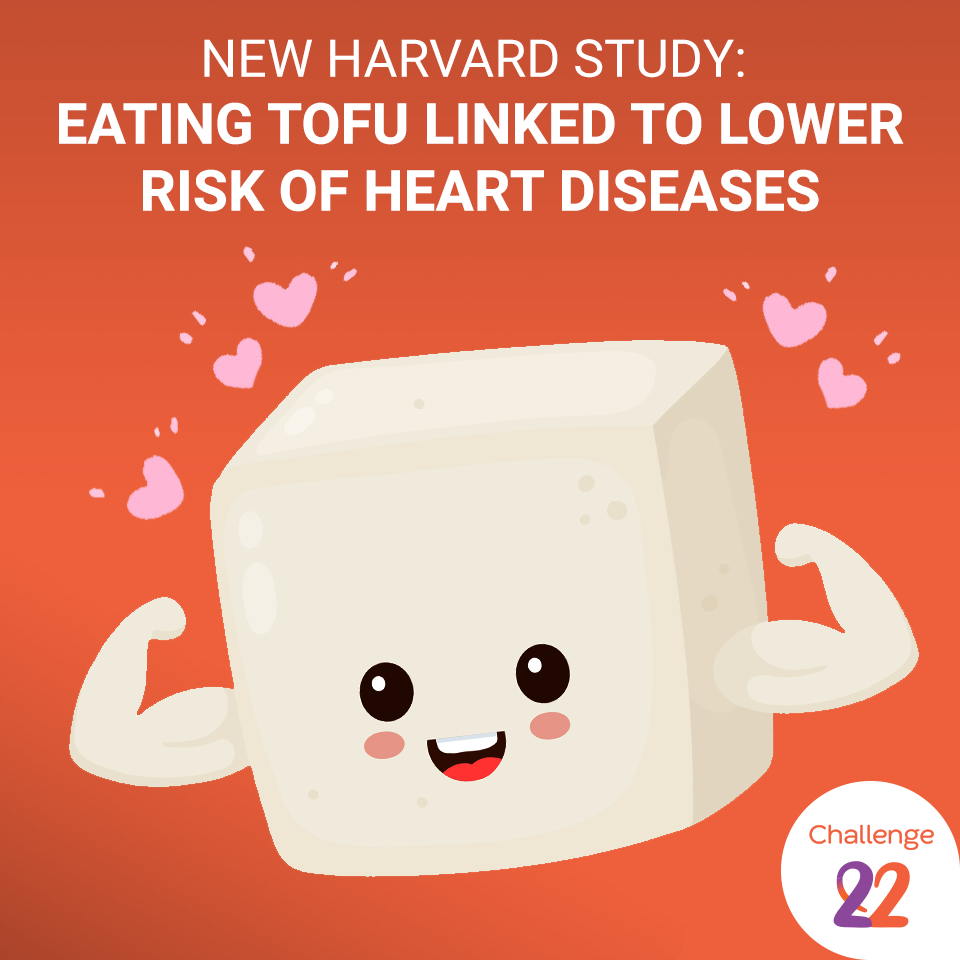
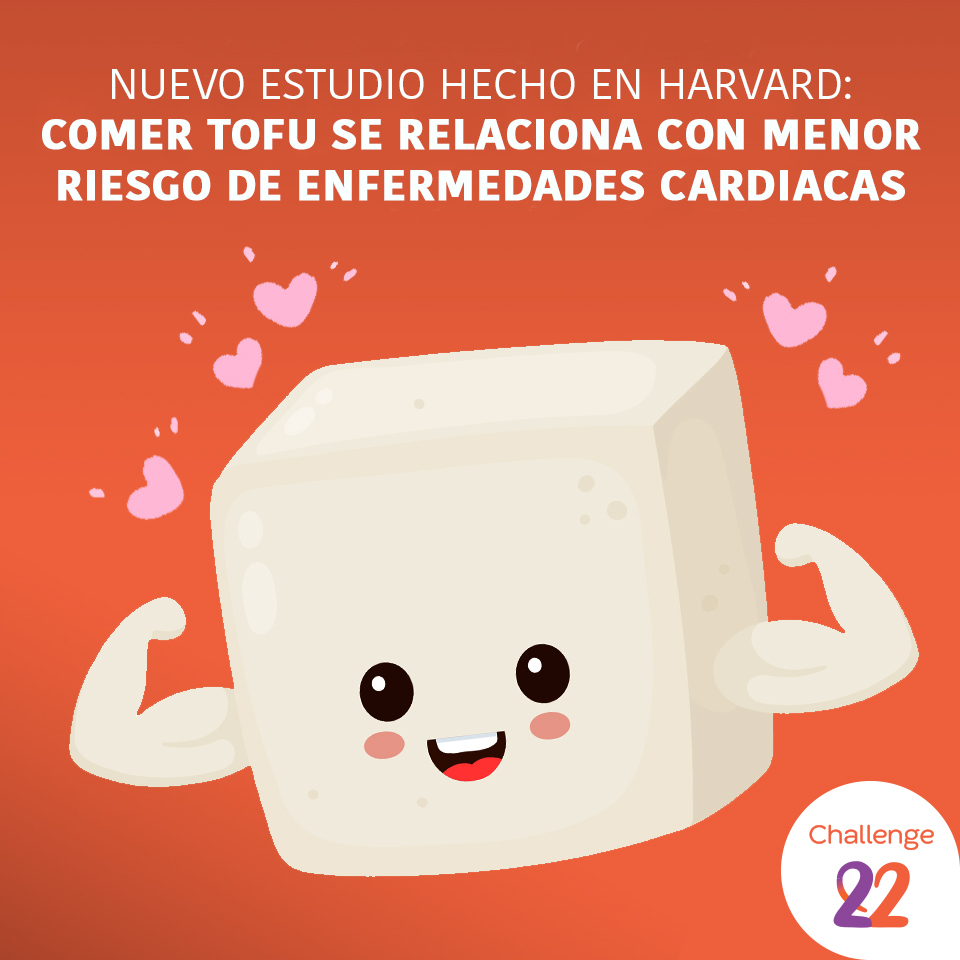
Updated info images, changes in language.

Changed region(s): [[0.0312, 0.0312, 0.9688, 0.2188]]

diff --git a/index.html b/index.html
@@ -26,7 +26,7 @@
                 <a href="#inicio">Inicio</a>
                 <a href="#nosotros">Nosotros</a>
                 <a href="#challenge22">Challenge22</a>
-                <a href="#links">Inscríbite!</a>
+                <a href="#links">Inscríbete!</a>
                 <a href="#galeria">Galería</a>
             </nav>
             <a href="#" class="hamb"><i class="fas fa-bars"></i></a>
@@ -127,7 +127,7 @@
                 ¿Cuánto sabes sobre veganismo?
                 ¿Sabías que el veganismo es más que una dieta?
                 ¿Los veganos comemos sólo ensalada?
-                ¿Podemos comer pescado?
+                ¿Podemos comer peces?
                 ¿Podemos consumir miel de abeja?
 
                 Estas son algunas de las interrogantes con las que empezamos normalmente y que juntos te ayudaremos a resolverlas!

diff --git a/style.css b/style.css
@@ -286,7 +286,7 @@ footer .redes a
 
 #nosotros
 {
-    background-image: url(img/blur.jpg);
+    background-image: url(img/berries.jpg);
     background-size: cover;
 }
 
@@ -327,7 +327,7 @@ footer .redes a
 
 #links
 {
-    background-image: url(img/blur.jpg);
+    background-image: url(img/berries.jpg);
     background-size: cover;
 }
 
